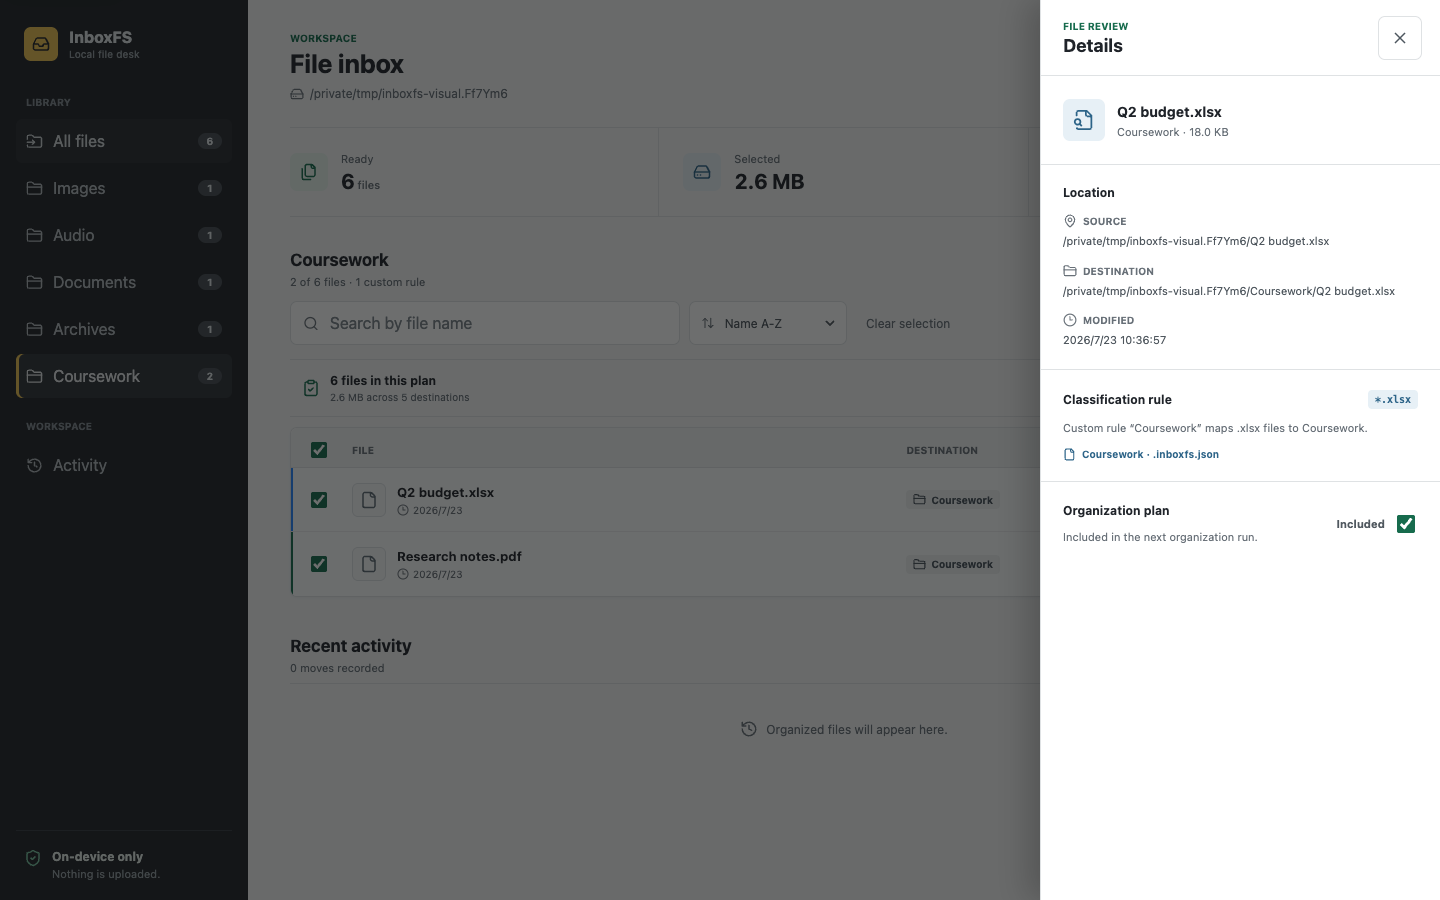
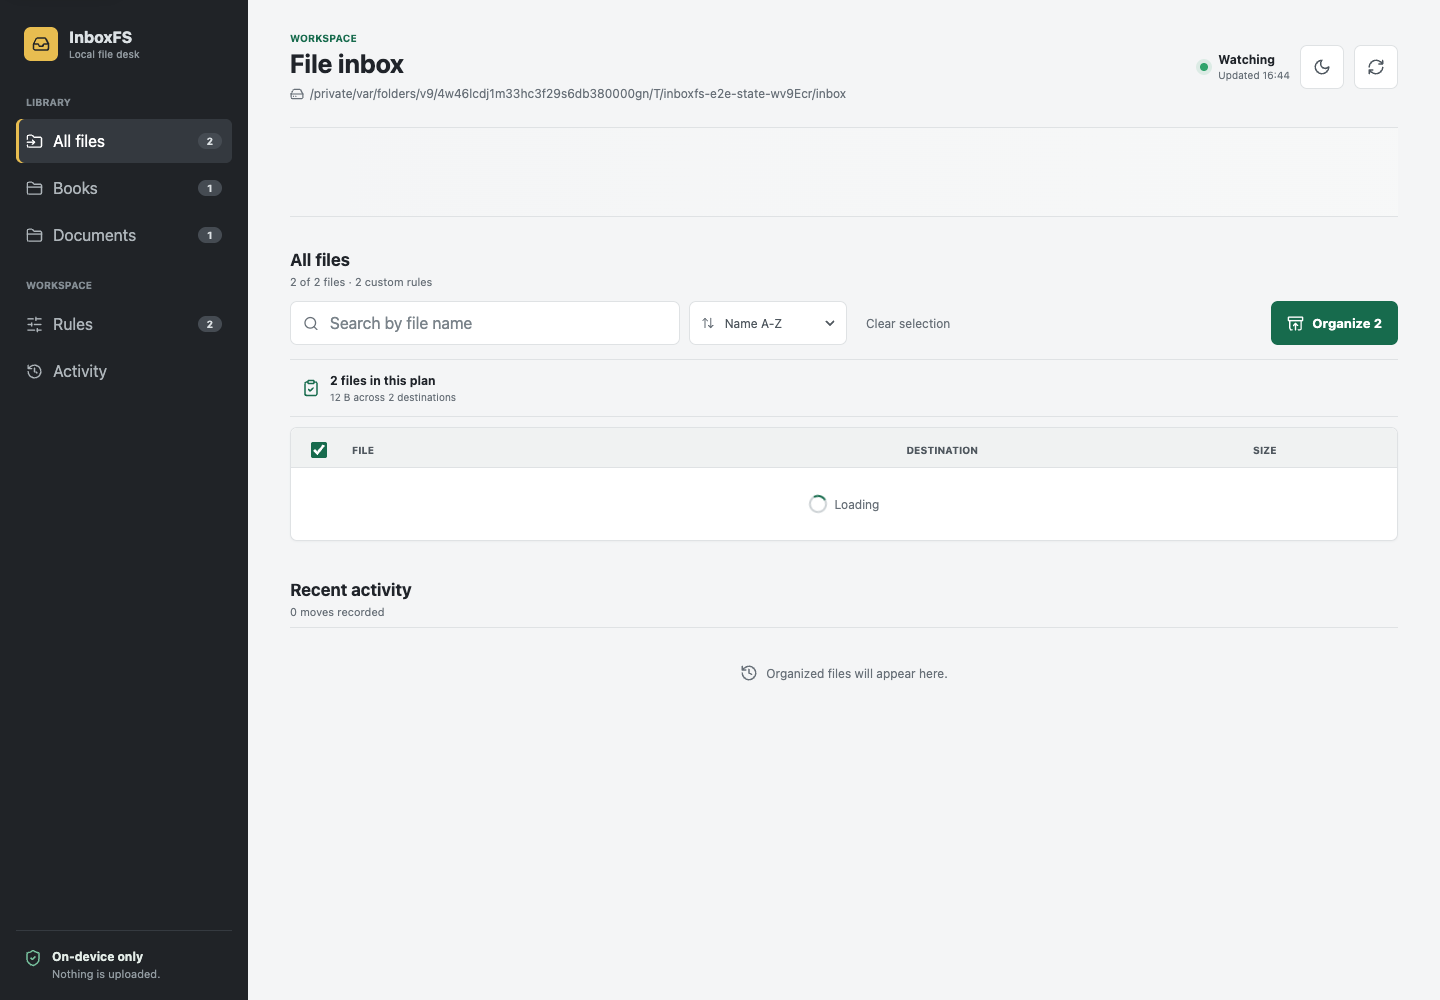
experiment: finish v0.9 release surface

diff --git a/web/src/styles.css b/web/src/styles.css
@@ -250,7 +250,7 @@ input[type="checkbox"] { width: 16px; height: 16px; accent-color: var(--primary)
 .plan-control input { width: 18px; height: 18px; }
 .rules-dialog { width: min(680px, 100vw); max-width: none; height: 100dvh; max-height: none; margin: 0 0 0 auto; padding: 0; border: 0; border-left: 1px solid var(--border); background: var(--surface); color: var(--text); box-shadow: -12px 0 32px #0003; }
 .rules-dialog::backdrop { background: #0c0d0e99; }
-.rules-panel { min-height: 100%; display: grid; grid-template-rows: auto 1fr auto; background: var(--surface); }
+.rules-panel { height: 100%; min-height: 0; display: grid; grid-template-rows: auto minmax(0, 1fr) auto; background: var(--surface); }
 .rules-header { min-height: 76px; padding: 14px 18px 14px 22px; border-bottom: 1px solid var(--border); display: flex; align-items: center; justify-content: space-between; gap: 16px; }
 .rules-header > div { display: grid; gap: 3px; }
 .rules-header span { color: var(--green); font-size: 10px; font-weight: 750; text-transform: uppercase; }

diff --git a/docs/rules-v2.md b/docs/rules-v2.md
@@ -1,0 +1,74 @@
+# InboxFS rule configuration v2
+
+InboxFS 0.9 adds ordered multi-condition rules while continuing to read version 1 extension-only configurations.
+
+## Migration behavior
+
+- Existing `version: 1` files are read without modification.
+- Every v1 rule becomes an enabled v2 rule with the same name, destination, and extensions.
+- Opening the rule editor or requesting a preview does not write a configuration file.
+- Choosing **Save rules** writes the normalized v2 document atomically with private file permissions.
+- Duplicate extensions remain an error in v1, preserving its unambiguous behavior. In v2, overlaps are allowed because explicit order determines the winner and the preview reports conflicts.
+
+For example, this v1 rule:
+
+```json
+{
+  "version": 1,
+  "rules": [
+    {
+      "name": "Reading",
+      "destination": "Books",
+      "extensions": ["epub", "mobi"]
+    }
+  ]
+}
+```
+
+is saved as:
+
+```json
+{
+  "version": 2,
+  "rules": [
+    {
+      "name": "Reading",
+      "destination": "Books",
+      "enabled": true,
+      "match": { "extensions": ["epub", "mobi"] }
+    }
+  ]
+}
+```
+
+## Matching semantics
+
+Rules are evaluated in array order. The first enabled rule whose populated condition groups all match wins. Values within an extension or file-name glob group use OR semantics.
+
+```json
+{
+  "name": "Large reports",
+  "destination": "Reports",
+  "enabled": true,
+  "match": {
+    "extensions": ["pdf", "docx"],
+    "nameGlobs": ["report-*", "quarterly-????.*"],
+    "size": { "minBytes": 1000000, "maxBytes": 50000000 }
+  }
+}
+```
+
+This rule requires a PDF or DOCX extension, either file-name pattern, and a size from 1 MB through 50 MB inclusive.
+
+Extensions and globs are case-insensitive. `*` matches zero or more characters and `?` matches one Unicode code point. Patterns apply only to the base file name: `/`, `\\`, control characters, recursive `**`, arbitrary regular expressions, and executable fields are rejected. InboxFS never reads file contents while matching or previewing rules.
+
+## Limits and safety
+
+- 100 rules per configuration
+- 50 extensions and 20 globs per rule
+- 100 characters per glob
+- 64 KB maximum configuration size
+- non-negative safe integers for byte limits
+- one visible destination folder name, with no path separators or traversal
+
+Preview requests use the same parser and matcher as saved rules. They list at most 100 detailed destination changes while still counting every loose regular file. Saving remains protected by the loopback, same-origin, path-canonicalization, symbolic-link, and atomic-write boundaries used elsewhere in InboxFS.

diff --git a/README.md b/README.md
@@ -43,39 +43,54 @@ npx github:YanhanLi/inboxfs ~/Desktop
 - works in desktop and mobile-width browsers without a cloud account;
 - provides keyboard-friendly filters, search, bulk selection, and responsive file views;
 - follows the system light or dark theme and remembers manual theme changes locally;
-- creates, edits, validates, and removes custom extension rules from the responsive workspace.
+- creates, orders, previews, enables, disables, validates, and removes deterministic multi-condition rules from the responsive workspace.
 
 ## Custom rules
 
-Choose **Rules** in the workspace to create and edit custom extension categories. InboxFS validates the complete rule set before atomically saving `.inboxfs.json` in the folder being scanned.
+Choose **Rules** in the workspace to create and edit custom categories. The editor previews match counts, sample files, destination changes, and priority conflicts before anything is saved. Previewing is read-only: it does not move files or rewrite `.inboxfs.json`.
+
+<picture>
+  <source media="(prefers-color-scheme: dark)" srcset="docs/inboxfs-rules-dark.png">
+  <img alt="InboxFS deterministic rule editor with a read-only impact preview" src="docs/inboxfs-rules.png">
+</picture>
+
+InboxFS validates the complete rule set before atomically saving `.inboxfs.json` in the folder being scanned. The same versioned file can also be edited directly:
 
 The same versioned file can also be edited directly:
 
 ```json
 {
-  "version": 1,
+  "version": 2,
   "rules": [
     {
-      "name": "Research papers",
-      "extensions": ["pdf", "epub"],
-      "destination": "Research"
+      "name": "Large reports",
+      "destination": "Reports",
+      "enabled": true,
+      "match": {
+        "extensions": ["pdf"],
+        "nameGlobs": ["report-*.pdf"],
+        "size": { "minBytes": 1000000 }
+      }
     },
     {
-      "name": "Course data",
-      "extensions": ["csv", "xlsx"],
-      "destination": "Coursework"
+      "name": "Reading",
+      "destination": "Books",
+      "enabled": true,
+      "match": { "extensions": ["epub", "mobi"] }
     }
   ]
 }
 ```
 
-Custom rules take precedence over built-in categories. Extensions are case-insensitive and may include a leading dot. Each extension can belong to only one custom rule, and destinations must be single visible folder names without path separators. InboxFS rejects invalid, ambiguous, oversized, or symbolic-link configurations.
+Rules are evaluated from top to bottom and the first enabled match wins. Conditions inside one rule are combined with AND; values inside `extensions` or `nameGlobs` are combined with OR. Extensions and bounded `*`/`?` file-name globs are case-insensitive. Globs never match path separators, and arbitrary regular expressions, recursive `**` patterns, and scripts are rejected. Destinations must be single visible folder names without path separators.
+
+Version 1 extension-only files remain supported. The editor reads them without losing rules and writes normalized version 2 only after an explicit save. See [the v1 to v2 migration guide](docs/rules-v2.md) for the complete schema and compatibility behavior.
 
 The workspace watches `.inboxfs.json` for changes. Saving a destination immediately refreshes the preview and invalidates the previous suggestion IDs, so a stale organization plan cannot silently move files using a new rule.
 
 ## What it does not do yet
 
-InboxFS uses deterministic file-extension rules. It does not inspect document contents, run OCR, or use an AI model. Those features will only be added when they preserve the preview-first and local-first behavior.
+InboxFS uses deterministic file metadata rules. It does not inspect document contents, run OCR, upload content, execute scripts, or use an AI model. Those features will only be added when they preserve the preview-first and local-first behavior.
 
 Undo history is stored as a private JSON file under `~/.inboxfs/`. Version 0.2 automatically migrates matching v0.1 history to collision-resistant per-directory ledgers. InboxFS is an organizer, not a backup system.
 
@@ -90,7 +105,7 @@ npm run check
 npm run dev -- /path/to/a/test-folder --no-open
 ```
 
-`npm run check` builds the Node server and React interface, runs the filesystem and HTTP safety tests, enforces the 67.12 kB gzip budget for the main JavaScript bundle, and exercises the critical desktop and mobile workflows in Chromium. The browser suite also checks WCAG 2 AA accessibility rules and lazy-chunk recovery.
+`npm run check` builds the Node server and React interface, runs the filesystem and HTTP safety tests, benchmarks 100 rules against 10,000 file records, enforces the 67.12 kB gzip budget for the main JavaScript bundle, and exercises the critical desktop and mobile workflows in Chromium. The browser suite also checks WCAG 2 AA accessibility rules and lazy-chunk recovery.
 
 ## Safety model
 

diff --git a/CHANGELOG.md b/CHANGELOG.md
@@ -1,5 +1,15 @@
 # Changelog
 
+## 0.9.0
+
+- Introduce a backward-compatible `.inboxfs.json` v2 schema with ordered, enabled or disabled rules combining extensions, bounded file-name globs, and byte-size ranges.
+- Preserve version 1 extension rules in memory and normalize them to version 2 only when explicitly saved.
+- Add read-only impact previews with match counts, sample files, destination changes, and shadow or overlap diagnostics.
+- Make every normalized rule edit invalidate stale organization suggestions, including priority, condition, enabled-state, and rule-name changes.
+- Reject arbitrary regular expressions, scripts, recursive globs, path separators, unsafe destinations, oversized configurations, and symbolic-link configuration writes.
+- Add a repeatable 100-rule by 10,000-file benchmark with a 100 ms p95 budget while retaining the 67.12 kB main JavaScript gzip ceiling.
+- Expand unit, HTTP, desktop, mobile, dark-theme, accessibility, migration, preview-purity, and invalid-draft coverage.
+
 ## 0.8.1
 
 - Move recent activity and file rows into dedicated lazy modules, giving the main JavaScript budget reliable headroom across zlib implementations used by macOS and Linux CI.